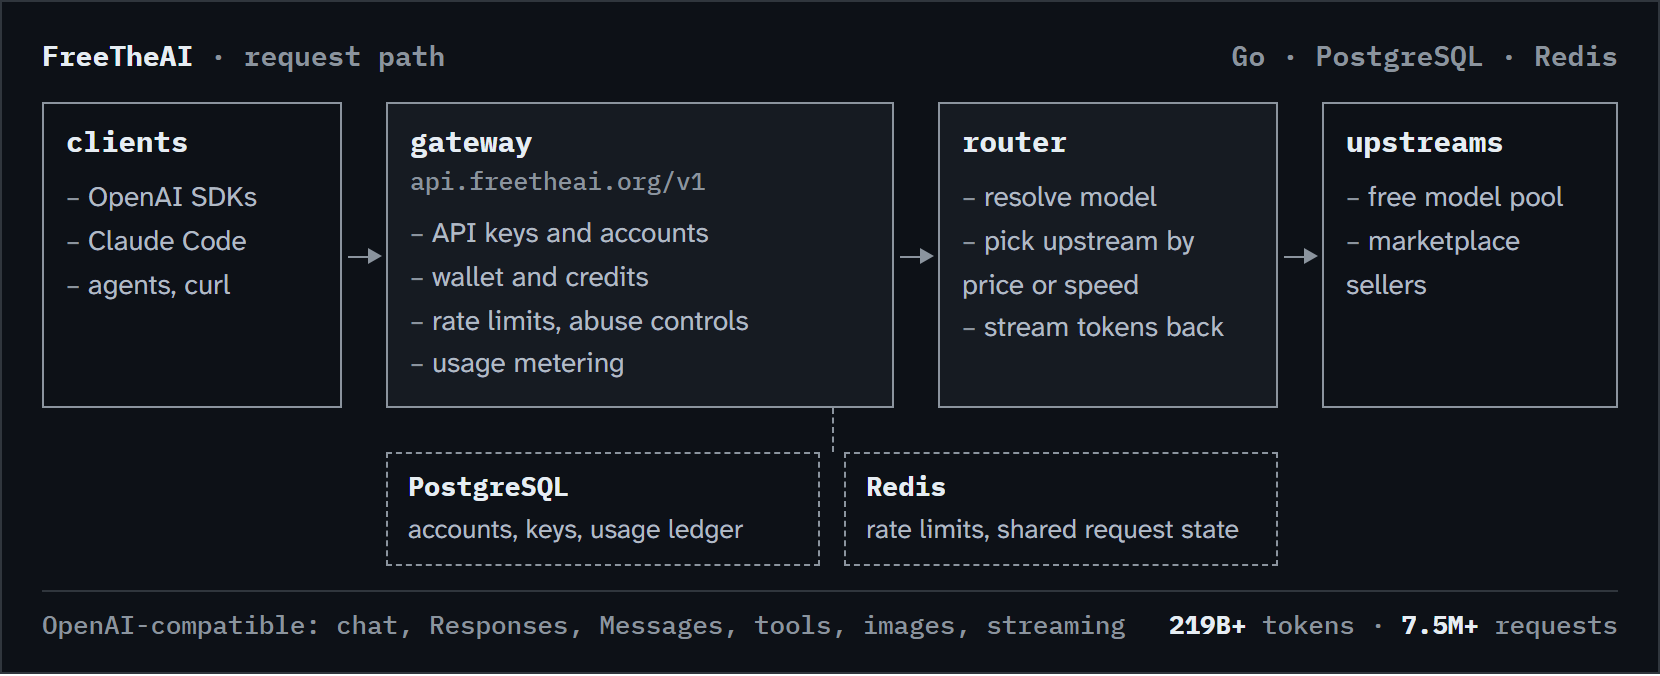
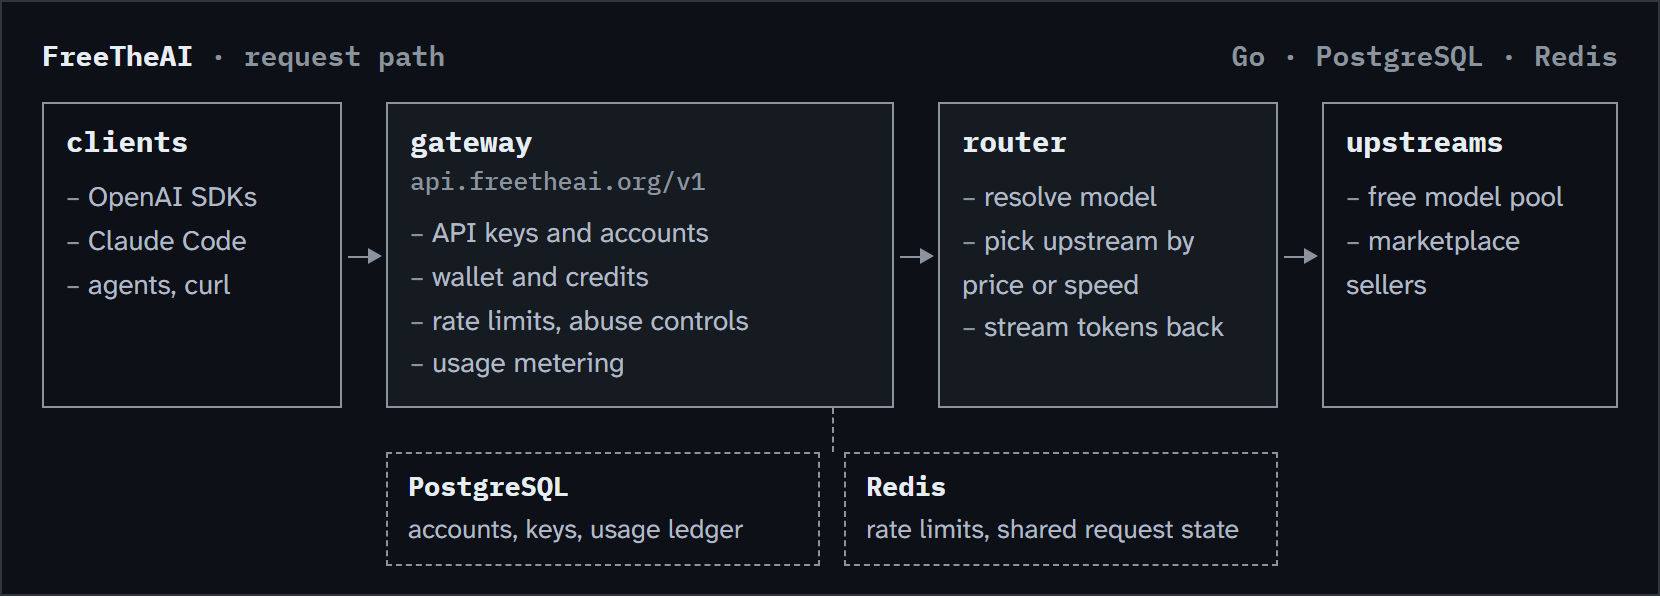
Use neutral light colors in the diagram and drop the repeated stats line

diff --git a/assets/src/freetheai-diagram.html b/assets/src/freetheai-diagram.html
@@ -7,8 +7,8 @@
 <link href="https://fonts.googleapis.com/css2?family=IBM+Plex+Mono:wght@400;500;600;700&family=Atkinson+Hyperlegible+Next:wght@400;600&display=block" rel="stylesheet">
 <style>
   :root {
-    --bg: #fdfdf9; --ink: #191918; --muted: #4a4945; --quiet: #6b6963;
-    --line: #252523; --soft: #d4d2cb; --fill: #f4f3ee; --mark: #fff2a8;
+    --bg: #ffffff; --ink: #1f2328; --muted: #424a53; --quiet: #59636e;
+    --line: #59636e; --soft: #d1d9e0; --fill: #f6f8fa; --mark: #f6f8fa;
   }
   [data-theme="dark"] {
     --bg: #0d1117; --ink: #e6edf3; --muted: #b1bac4; --quiet: #8b949e;
@@ -80,7 +80,6 @@
     </div>
   </div>
 
-  <div class="foot"><span>OpenAI-compatible: chat, Responses, Messages, tools, images, streaming</span><span><b>{{tokens}}</b> tokens &middot; <b>{{requests}}</b> requests</span></div>
 </div>
 </body>
 </html>
